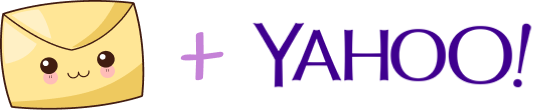
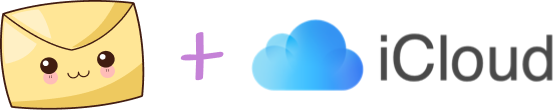
GitBook: [#108] No subject

Changed region(s): [[0.4288, 0.1636, 1.0, 0.8455]]

diff --git a/guides/connecting-yahoo-mail.md b/guides/connecting-yahoo-mail.md
@@ -6,7 +6,7 @@ description: >-
 
 # How to connect a Yahoo Mail account
 
-![](<../.gitbook/assets/image (2).png>)
+![](<../.gitbook/assets/image (2) (1).png>)
 
 ## Step 1: Generate an app password
 
@@ -40,6 +40,14 @@ You can now connect your Yahoo Mail to [Leave Me Alone](https://leavemealone.app
 
 ## Troubleshooting
 
-### Still need help?
+### App Passwords unavailable
+
+When you try to create an **app password** you might see this pop-up:
+
+![](../.gitbook/assets/image.png)
+
+This means that unfortunately Yahoo has disabled the **app password** functionality for your account. Due to abuse of their system Yahoo will now only allow "trusted" accounts to use this functionality. In order to become a trusted account and re-enable app passwords you have to contact their support by email.
+
+## Still need help?
 
 Submit a request [here](https://leavemealone.app/feedback) or email us at [support@leavemealone.app](mailto:support@leavemealone.app).

diff --git a/guides/connecting-icloud.md b/guides/connecting-icloud.md
@@ -6,7 +6,7 @@ description: >-
 
 # How to connect an iCloud Mail account
 
-![](../.gitbook/assets/image.png)
+![](<../.gitbook/assets/image (2).png>)
 
 ## Step 1: Generate an app-specific password
 
